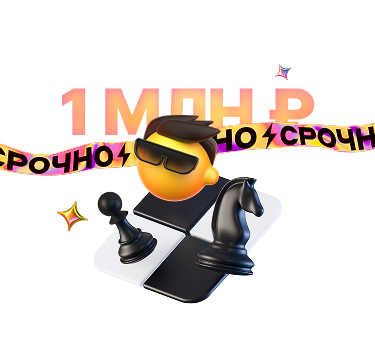
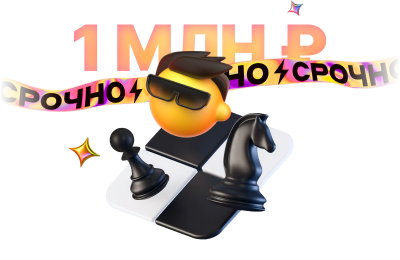
fix

diff --git a/src/App.tsx b/src/App.tsx
@@ -45,13 +45,7 @@ export const App = () => {
               С большим денежным призом
             </Typography.Text>
           </div>
-          <img
-            src={hbImg}
-            alt="HB"
-            width="100%"
-            height={260}
-            style={{ objectFit: 'cover', transform: 'scale(1.1)', margin: '-1rem 0 1rem' }}
-          />
+          <img src={hbImg} alt="HB" width="100%" height={260} style={{ objectFit: 'contain' }} />
           <Typography.Text view="primary-small" color="secondary">
             Играйте и выигрывайте
           </Typography.Text>

diff --git a/src/style.css.ts b/src/style.css.ts
@@ -16,13 +16,14 @@ const container = style({
 
 const boxHero = style({
   display: 'flex',
-  padding: '1rem 20px 20px',
+  padding: '1rem 0 20px',
   flexDirection: 'column',
   gap: '1rem',
   borderRadius: '0 0 2rem 2rem',
   backgroundColor: '#FFFFFF',
   textAlign: 'center',
   overflow: 'hidden',
+  alignItems: 'center',
 });
 
 const row = style({
